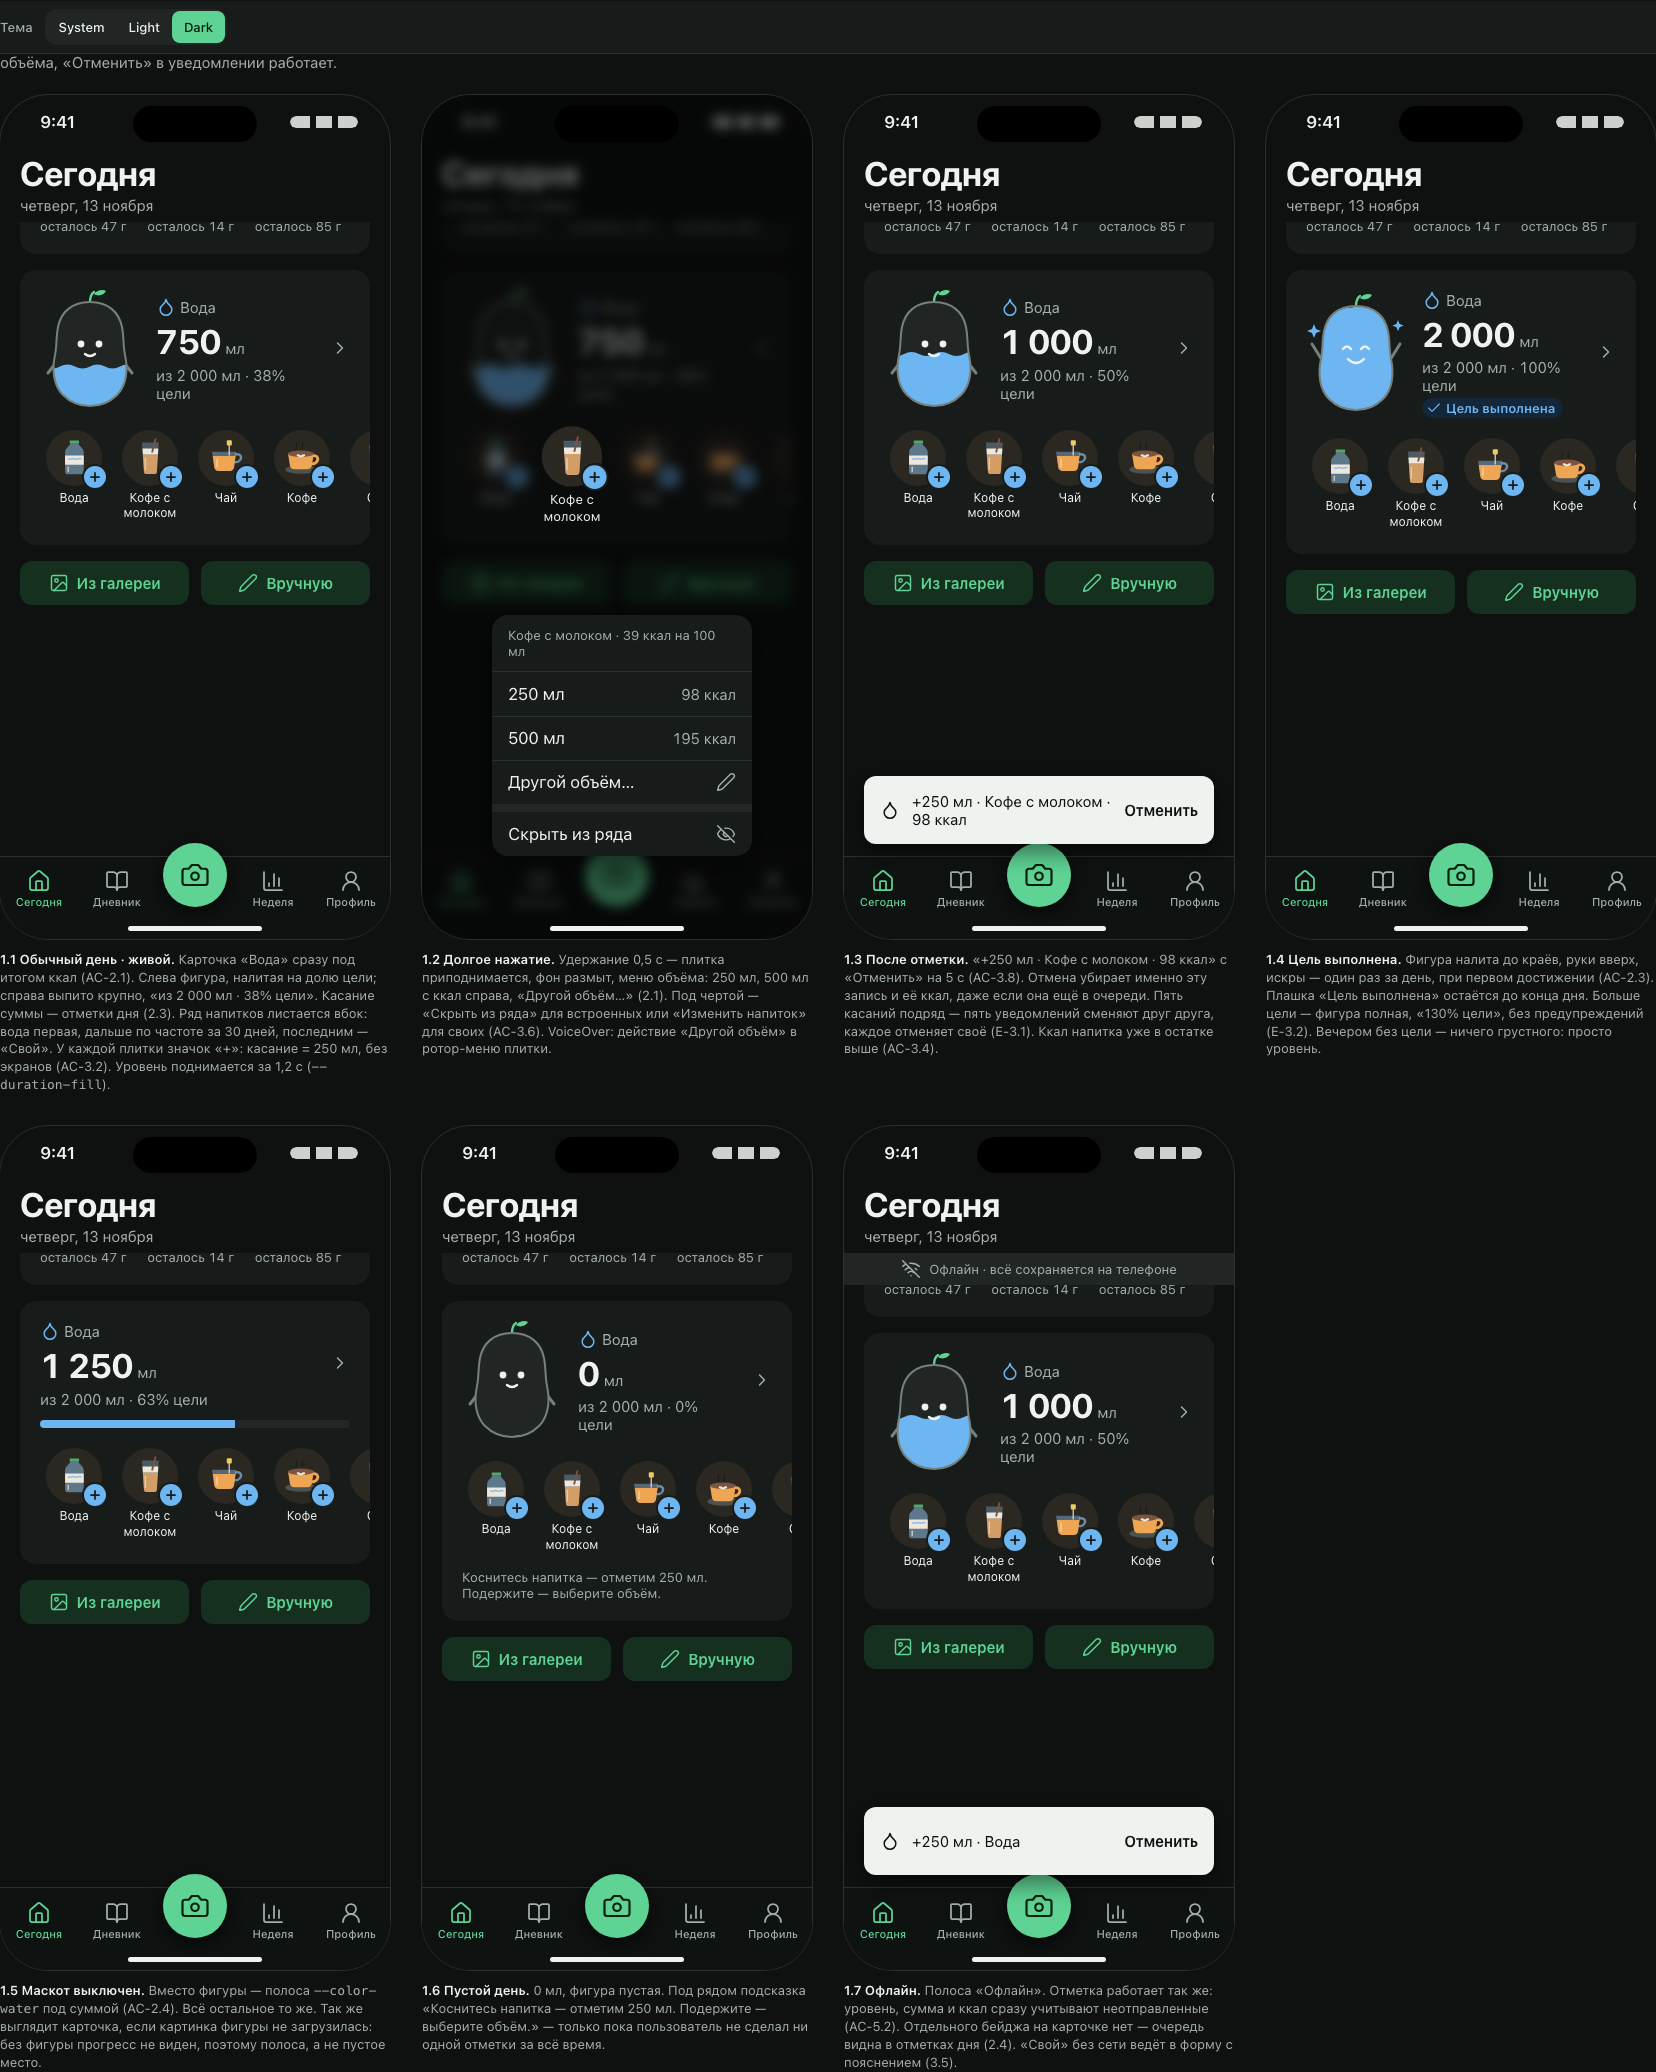
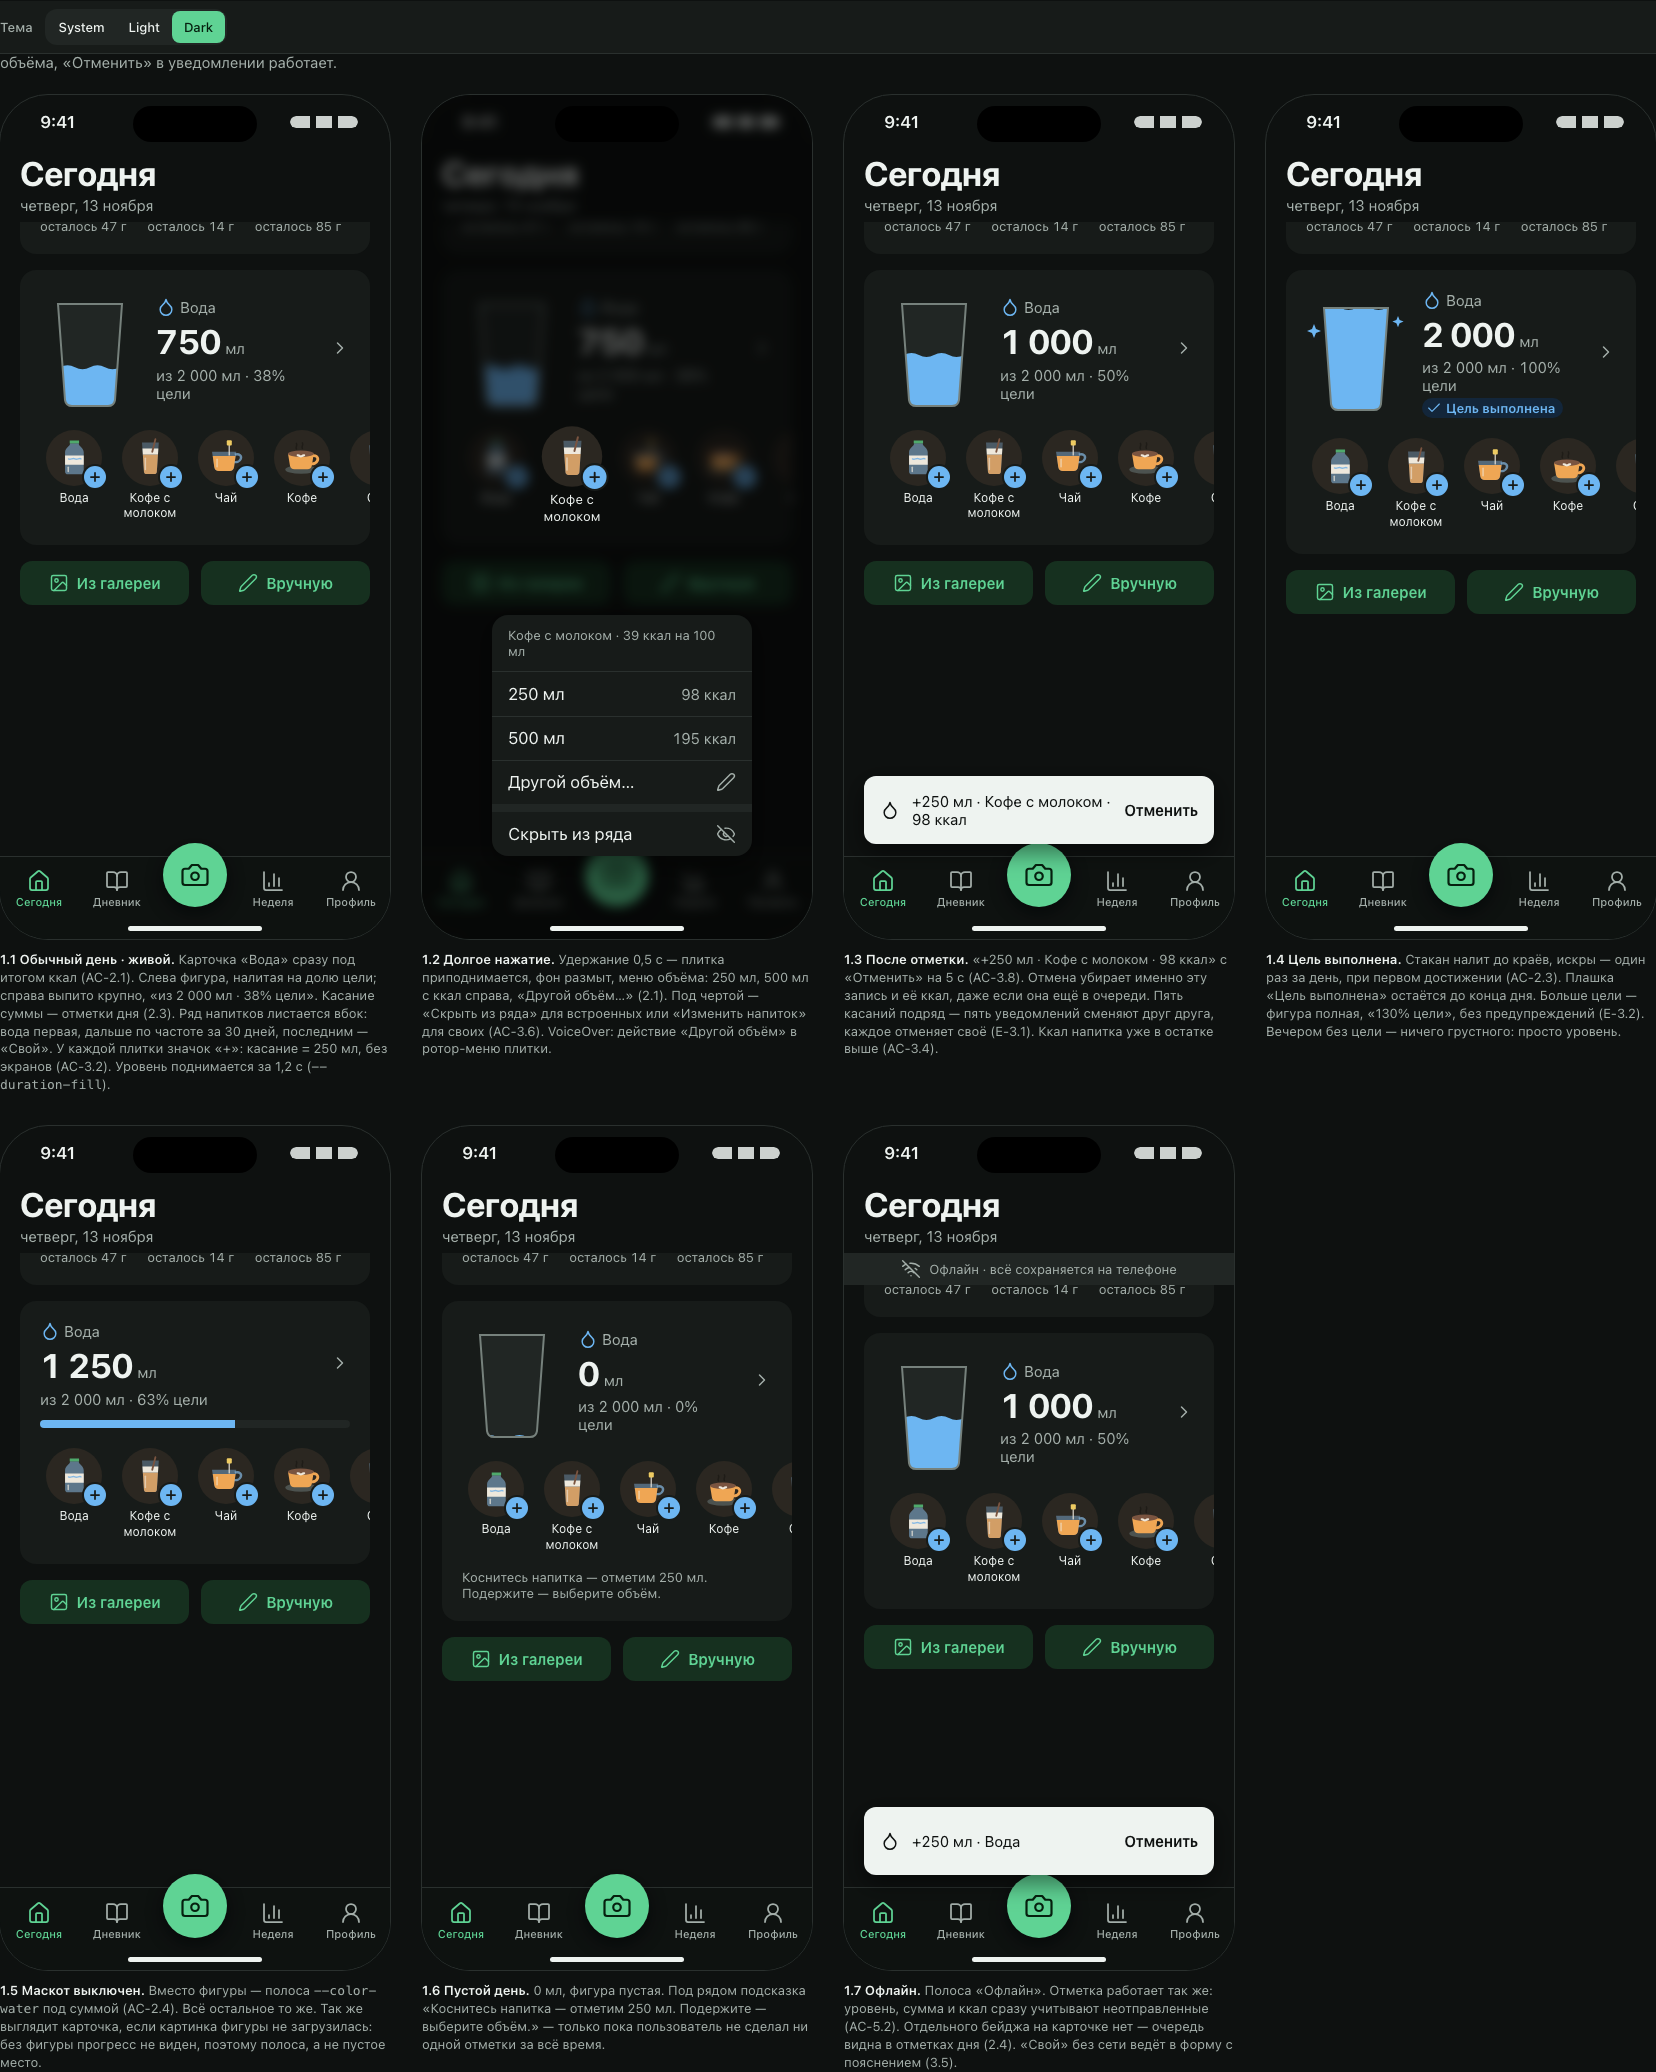
OCT-147 Replace the character stand-in with a neutral filling glass until the mascot exists

diff --git a/docs/design/oct-147/prototype.html b/docs/design/oct-147/prototype.html
@@ -471,11 +471,6 @@ body{padding:var(--space-10) var(--space-8)}
 .w-fig .shell{fill:none;stroke:var(--color-border-strong);stroke-width:2}
 .w-fig .empty{fill:var(--color-surface-2)}
 .w-fig .wv{fill:var(--color-water)}
-.w-fig .face{fill:none;stroke:var(--color-text);stroke-width:2.4;stroke-linecap:round}
-.w-fig .eye{fill:var(--color-text)}
-.w-fig .limb{fill:none;stroke:var(--color-border-strong);stroke-width:3;stroke-linecap:round}
-.w-fig .sprout{fill:var(--color-accent)}
-.w-fig .sprout-s{fill:none;stroke:var(--color-accent);stroke-width:2.4;stroke-linecap:round}
 .w-fig .spark{fill:var(--color-water)}
 .w-sum{flex:1;min-width:0;display:flex;flex-direction:column;gap:var(--space-1);min-height:var(--tap-min);border-radius:var(--radius-md)}
 .w-sum .lbl{display:flex;align-items:center;gap:var(--space-1)}
@@ -627,7 +622,7 @@ body{padding:var(--space-10) var(--space-8)}
 <div id="sprite" hidden></div>
 
 <h1 class="doc-h1">OCT-147 · Вода и напитки</h1>
-<p class="doc-lead">Этап дизайна для «Продукт OCT-30» (эпик OCT-134). Компоненты OCT-13, 16, 19, 22, 33. Новые токены: <code>--color-water</code>, <code>--color-water-soft</code>, <code>--water-figure-size</code>, <code>--drink-tile-size</code>, <code>--duration-fill</code>. Три новые иллюстрации в набор OCT-33: кофе с молоком, газировка, кефир. iPhone 14/15, 390 × 844 pt. <b>Фигура — заглушка:</b> персонажа маскота ещё не нарисовали (OCT-27), механика наполнения та же для финальной фигуры. Пример: цель 2 000 мл (ориентир), норма 2 100 ккал, чт 13 ноября.</p>
+<p class="doc-lead">Этап дизайна для «Продукт OCT-30» (эпик OCT-134). Компоненты OCT-13, 16, 19, 22, 33. Новые токены: <code>--color-water</code>, <code>--color-water-soft</code>, <code>--water-figure-size</code>, <code>--drink-tile-size</code>, <code>--duration-fill</code>. Три новые иллюстрации в набор OCT-33: кофе с молоком, газировка, кефир. iPhone 14/15, 390 × 844 pt. <b>Фигура — нейтральный стакан-заглушка:</b> персонажа маскота ещё нет (OCT-27); когда он появится, наполняться будет он, механика та же. Пример: цель 2 000 мл (ориентир), норма 2 100 ккал, чт 13 ноября.</p>
 
 <section class="doc-section" id="today">
   <h2 class="doc-h2">1 · Карточка «Вода» на «Сегодня»</h2>
@@ -678,23 +673,17 @@ const DR = {
 const ROW = ['water','latte','tea','coffee','juice','milk','soda','kefir','mylatte'];
 const kc = (d, v) => Math.round(DR[d].k * v / 100);
 
-/* ---------- water figure: stand-in silhouette, filled from the bottom ---------- */
+/* ---------- water figure: neutral glass stand-in until the mascot (OCT-27) exists ---------- */
 let uid = 0;
-const BODY = 'M50 12c18 0 29 10 32 25 2 10 1 18 3 28 3 14 2 30-8 40-8 8-17 11-27 11s-19-3-27-11C13 95 12 79 15 65c2-10 1-18 3-28C21 22 32 12 50 12z';
+const BODY = 'M18 14h64l-7 96q-1 6-7 6H32q-6 0-7-6z';
 function figure(pct, {happy=false, live=false}={}){
   const id = `wclip${uid++}`;
-  const y = 116 - Math.min(100, pct) * 1.04; // body spans y 12…116
-  const face = happy
-    ? `<path class="face" d="M37 55q4-5 8 0M55 55q4-5 8 0"/><path class="face" d="M42 65q8 8 16 0"/>`
-    : `<circle class="eye" cx="41" cy="54" r="3.4"/><circle class="eye" cx="59" cy="54" r="3.4"/><path class="face" d="M45 64q5 4 10 0"/>`;
-  const limbs = happy
-    ? `<path class="limb" d="M16 66 6 50M84 66l10-16"/><path class="spark" d="M8 30l2 5 5 2-5 2-2 5-2-5-5-2 5-2zM92 26l1.6 4 4 1.6-4 1.6-1.6 4-1.6-4-4-1.6 4-1.6z"/>`
-    : `<path class="limb" d="M15 74l-7 9M85 74l7 9"/>`;
+  const y = 116 - Math.min(100, pct) * 1.02; // glass spans y 14…116
+  const spark = happy ? `<path class="spark" d="M8 30l2 5 5 2-5 2-2 5-2-5-5-2 5-2zM92 22l1.6 4 4 1.6-4 1.6-1.6 4-1.6-4-4-1.6 4-1.6z"/>` : '';
   return `<div class="w-fig" aria-hidden="true"><svg viewBox="0 0 100 120"><defs><clipPath id="${id}"><path d="${BODY}"/></clipPath></defs>
-    <path class="sprout-s" d="M50 12c0-5 1-8 4-10"/><path class="sprout" d="M54 4c3-4 9-5 12-3-2 4-8 6-12 3z"/>
-    ${limbs}
+    ${spark}
     <g clip-path="url(#${id})"><rect class="empty" width="100" height="120"/><g class="lvl" ${live?'data-lvl':''} style="transform:translateY(${y}px)"><path class="wv" d="M-10 0q7.5-4 15 0t15 0 15 0 15 0 15 0 15 0 15 0 15 0V140H-10z"/></g></g>
-    <path class="shell" d="${BODY}"/>${face}</svg></div>`;
+    <path class="shell" d="${BODY}"/></svg></div>`;
 }
 
 /* ---------- Water card ---------- */
@@ -756,7 +745,7 @@ document.getElementById('today-row').innerHTML = [
     today({scroll:SC, card:waterCard({lift:'latte'}), extra:`<div class="ctx-scrim"></div>${ctxMenu('latte',{x:70,y:520})}`})),
   frame('1.3','После отметки','«+250 мл · Кофе с молоком · 98 ккал» с «Отменить» на 5 с (AC-3.8). Отмена убирает именно эту запись и её ккал, даже если она ещё в очереди. Пять касаний подряд — пять уведомлений сменяют друг друга, каждое отменяет своё (E-3.1). Ккал напитка уже в остатке выше (AC-3.4).',
     today({scroll:SC, card:waterCard({ml:1000}), extra:toast('+250 мл · Кофе с молоком · 98 ккал')})),
-  frame('1.4','Цель выполнена','Фигура налита до краёв, руки вверх, искры — один раз за день, при первом достижении (AC-2.3). Плашка «Цель выполнена» остаётся до конца дня. Больше цели — фигура полная, «130% цели», без предупреждений (E-3.2). Вечером без цели — ничего грустного: просто уровень.',
+  frame('1.4','Цель выполнена','Стакан налит до краёв, искры — один раз за день, при первом достижении (AC-2.3). Плашка «Цель выполнена» остаётся до конца дня. Больше цели — фигура полная, «130% цели», без предупреждений (E-3.2). Вечером без цели — ничего грустного: просто уровень.',
     today({scroll:SC, card:waterCard({ml:2000})})),
   frame('1.5','Маскот выключен','Вместо фигуры — полоса <code>--color-water</code> под суммой (AC-2.4). Всё остальное то же. Так же выглядит карточка, если картинка фигуры не загрузилась: без фигуры прогресс не виден, поэтому полоса, а не пустое место.',
     today({scroll:SC, card:waterCard({ml:1250, mascot:false})})),
